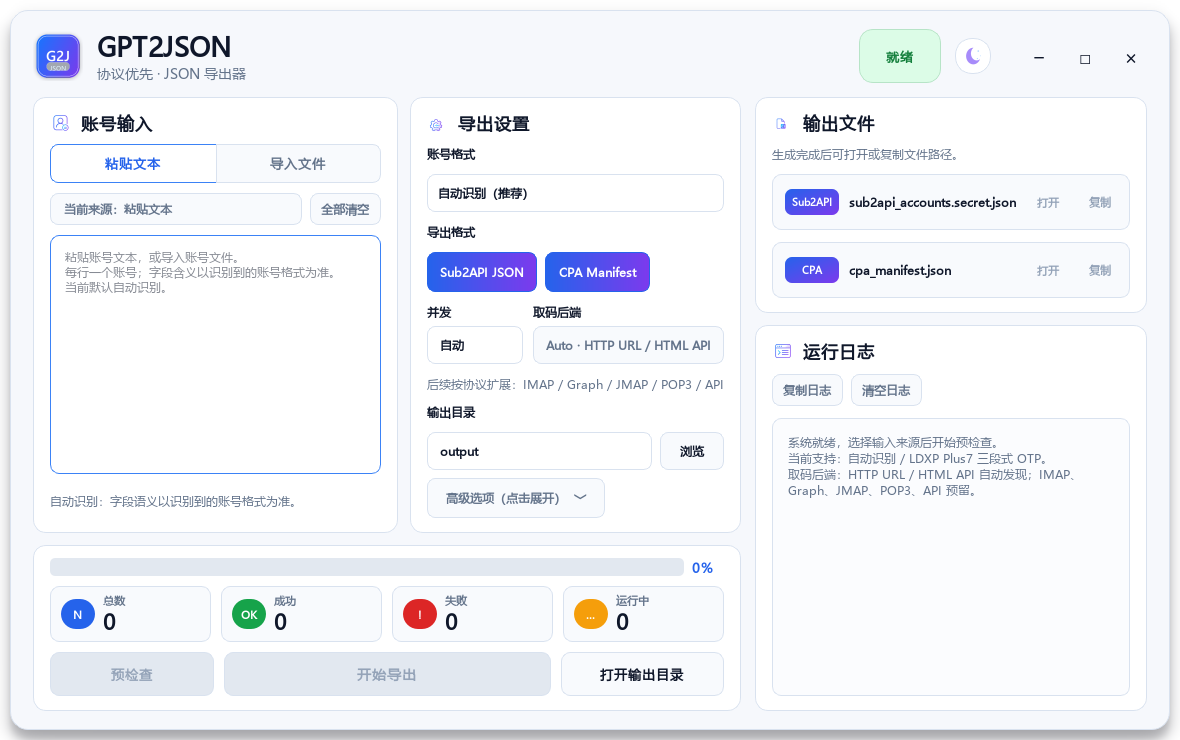
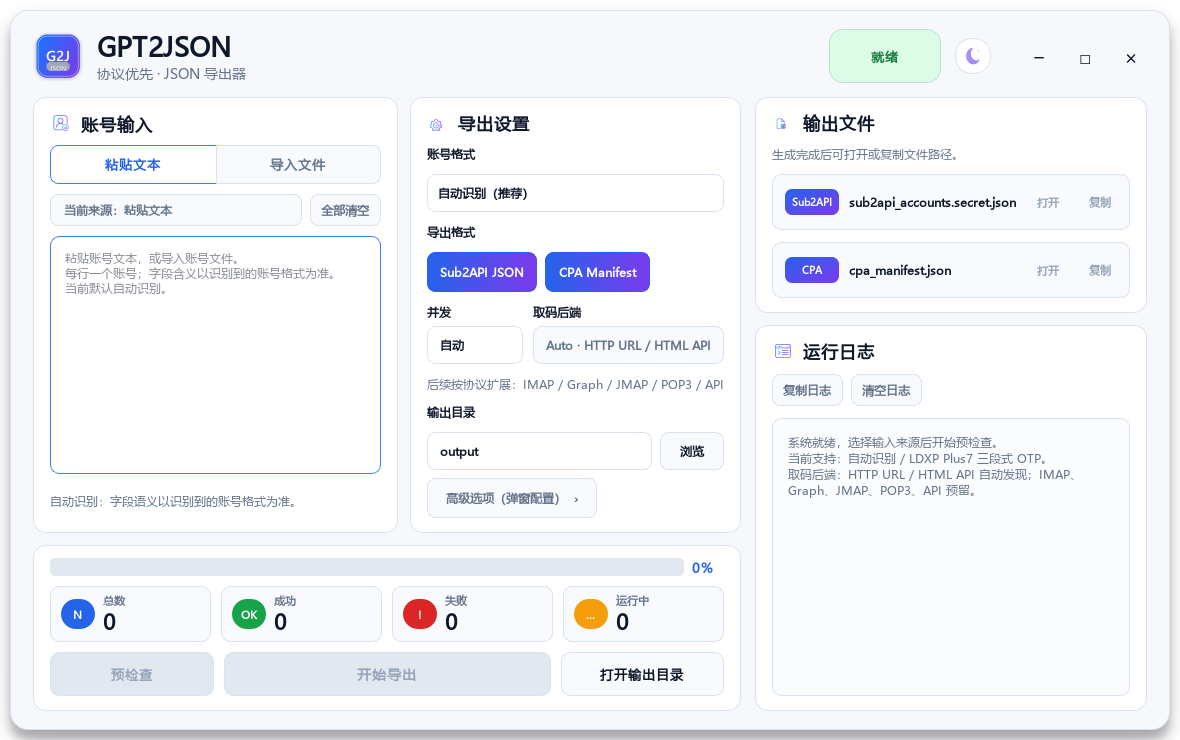
Stabilize GUI layout sizing

diff --git a/gpt2json/gui.py b/gpt2json/gui.py
@@ -11,6 +11,8 @@ from PySide6.QtWidgets import (
     QApplication,
     QButtonGroup,
     QComboBox,
+    QDialog,
+    QDialogButtonBox,
     QFileDialog,
     QFrame,
     QGraphicsDropShadowEffect,
@@ -24,6 +26,7 @@ from PySide6.QtWidgets import (
     QProgressBar,
     QPushButton,
     QSpinBox,
+    QStackedWidget,
     QToolButton,
     QVBoxLayout,
     QWidget,
@@ -316,6 +319,7 @@ class MainWindow(QMainWindow):
         self.setWindowTitle(APP_NAME)
         self.setMinimumSize(1120, 720)
         self.resize(1180, 740)
+        self.setFixedSize(1180, 740)
         self.setWindowFlags(Qt.WindowType.FramelessWindowHint | Qt.WindowType.Window)
         self.setAttribute(Qt.WidgetAttribute.WA_TranslucentBackground, True)
         if ICON_PATH.exists():
@@ -398,6 +402,7 @@ class MainWindow(QMainWindow):
         self.status_label = QLabel(self._status_text)
         self.status_label.setObjectName("StatusPill")
         self.status_label.setAlignment(Qt.AlignmentFlag.AlignCenter)
+        self.status_label.setFixedWidth(94)
         self.theme_btn = QToolButton()
         self.theme_btn.setObjectName("ThemeButton")
         self.theme_btn.setToolTip("切换深色 / 浅色")
@@ -476,16 +481,26 @@ class MainWindow(QMainWindow):
         source_row.addWidget(self.clear_input_btn)
         layout.addLayout(source_row)
 
+        self.input_stack = QStackedWidget()
+        self.input_stack.setObjectName("InputStack")
+        self.input_stack.setFixedHeight(238)
         self.paste_edit = QPlainTextEdit()
         self.paste_edit.setObjectName("PasteBox")
-        self.paste_edit.setPlaceholderText("自动识别账号格式\n当前支持：GPT邮箱----GPT密码----OTP取码源\n每行一个账号，粘贴内容优先于文件。")
+        self.paste_edit.setPlaceholderText("自动识别账号格式\n当前支持：GPT邮箱----GPT密码----OTP取码源\n每行一个账号，以当前选中的输入来源为准。")
         self.paste_edit.textChanged.connect(self._on_paste_changed)
-        layout.addWidget(self.paste_edit, 1)
+        self.input_stack.addWidget(self.paste_edit)
 
+        file_page = QWidget()
+        file_page_layout = QVBoxLayout(file_page)
+        file_page_layout.setContentsMargins(0, 0, 0, 0)
+        file_page_layout.setSpacing(10)
         self.file_drop = FileDropBox()
         self.file_drop.clicked.connect(self.pick_input)
         self.file_drop.path_changed.connect(self._on_file_changed)
-        layout.addWidget(self.file_drop, 1)
+        file_page_layout.addWidget(self.file_drop)
+        file_page_layout.addStretch(1)
+        self.input_stack.addWidget(file_page)
+        layout.addWidget(self.input_stack)
 
         self.input_hint_label = QLabel()
         self.input_hint_label.setObjectName("HintText")
@@ -569,26 +584,16 @@ class MainWindow(QMainWindow):
 
         self.advanced_btn = QToolButton()
         self.advanced_btn.setObjectName("AdvancedBar")
-        self.advanced_btn.setText("高级选项（点击展开）  ﹀")
-        self.advanced_btn.setCheckable(True)
-        self.advanced_btn.clicked.connect(self.toggle_advanced)
+        self.advanced_btn.setText("高级选项（弹窗配置）  ›")
+        self.advanced_btn.setCheckable(False)
+        self.advanced_btn.clicked.connect(self.open_advanced_dialog)
         layout.addWidget(self.advanced_btn)
 
-        self.advanced_panel = QWidget()
-        advanced_grid = QGridLayout(self.advanced_panel)
-        advanced_grid.setContentsMargins(0, 0, 0, 0)
-        advanced_grid.setHorizontalSpacing(8)
         self.timeout_spin = self._spin(10, 600, 30)
         self.otp_timeout_spin = self._spin(10, 600, 180)
         self.otp_interval_spin = self._spin(1, 60, 3)
-        advanced_grid.addWidget(self._field_label("HTTP 超时"), 0, 0)
-        advanced_grid.addWidget(self._field_label("OTP 超时"), 0, 1)
-        advanced_grid.addWidget(self._field_label("轮询间隔"), 0, 2)
-        advanced_grid.addWidget(self.timeout_spin, 1, 0)
-        advanced_grid.addWidget(self.otp_timeout_spin, 1, 1)
-        advanced_grid.addWidget(self.otp_interval_spin, 1, 2)
-        self.advanced_panel.setVisible(False)
-        layout.addWidget(self.advanced_panel)
+        for spin in (self.timeout_spin, self.otp_timeout_spin, self.otp_interval_spin):
+            spin.setVisible(False)
         layout.addStretch(1)
         return card
 
@@ -819,7 +824,7 @@ class MainWindow(QMainWindow):
             p = self.palette()
             style = f"color:{p['status_fg']};background:{p['status_bg']};border:1px solid {p['status_bd']};"
         self.status_label.setText(self._status_text)
-        self.status_label.setStyleSheet(style + "border-radius:14px;padding:6px 15px;min-width:50px;font-size:13px;font-weight:800;")
+        self.status_label.setStyleSheet(style + "border-radius:14px;padding:6px 8px;min-width:94px;max-width:94px;font-size:13px;font-weight:800;")
 
     def toggle_theme(self) -> None:
         self._theme = "dark" if self._theme == "light" else "light"
@@ -850,10 +855,7 @@ class MainWindow(QMainWindow):
         self.timeout_spin.setValue(int_setting("timeout", 30, 10, 600))
         self.otp_timeout_spin.setValue(int_setting("otp_timeout", 180, 10, 600))
         self.otp_interval_spin.setValue(int_setting("otp_interval", 3, 1, 60))
-        advanced_visible = str(self.settings.value("advanced_visible", "false")).lower() == "true"
-        self.advanced_btn.setChecked(advanced_visible)
-        self.advanced_panel.setVisible(advanced_visible)
-        self.advanced_btn.setText("高级选项（点击收起）  ︿" if advanced_visible else "高级选项（点击展开）  ﹀")
+        self.advanced_btn.setText("高级选项（弹窗配置）  ›")
 
     def _save_settings(self) -> None:
         self.settings.setValue("theme", self._theme)
@@ -865,7 +867,6 @@ class MainWindow(QMainWindow):
         self.settings.setValue("timeout", int(self.timeout_spin.value()))
         self.settings.setValue("otp_timeout", int(self.otp_timeout_spin.value()))
         self.settings.setValue("otp_interval", int(self.otp_interval_spin.value()))
-        self.settings.setValue("advanced_visible", self.advanced_panel.isVisible())
 
     def _schedule_preflight(self) -> None:
         if self._is_running:
@@ -900,8 +901,7 @@ class MainWindow(QMainWindow):
         is_paste = self._input_mode == "paste"
         self.paste_tab.setChecked(is_paste)
         self.file_tab.setChecked(not is_paste)
-        self.paste_edit.setVisible(is_paste)
-        self.file_drop.setVisible(not is_paste)
+        self.input_stack.setCurrentIndex(0 if is_paste else 1)
         self.input_source_label.setText(self._active_input_label())
         self._refresh_controls_state()
 
@@ -920,8 +920,10 @@ class MainWindow(QMainWindow):
 
     def _refresh_output_format_state(self, *_args: Any) -> None:
         if hasattr(self, "sub2api_row"):
-            self.sub2api_row.setVisible(self.sub2api_check.isChecked() or bool(self.sub2api_row.path))
-            self.cpa_row.setVisible(self.cpa_check.isChecked() or bool(self.cpa_row.path))
+            self.sub2api_row.setVisible(True)
+            self.cpa_row.setVisible(True)
+            self.sub2api_row.setEnabled(self.sub2api_check.isChecked() or bool(self.sub2api_row.path))
+            self.cpa_row.setEnabled(self.cpa_check.isChecked() or bool(self.cpa_row.path))
             any_selected = self.sub2api_check.isChecked() or self.cpa_check.isChecked()
             self.output_hint_label.setText("生成完成后可打开或复制文件路径。" if any_selected else "请至少勾选一种导出格式。")
         self._refresh_controls_state()
@@ -1070,11 +1072,40 @@ class MainWindow(QMainWindow):
         self._save_settings()
         super().closeEvent(event)
 
-    def toggle_advanced(self) -> None:
-        visible = self.advanced_btn.isChecked()
-        self.advanced_panel.setVisible(visible)
-        self.advanced_btn.setText("高级选项（点击收起）  ︿" if visible else "高级选项（点击展开）  ﹀")
-        self._save_settings()
+    def open_advanced_dialog(self) -> None:
+        dialog = QDialog(self)
+        dialog.setWindowTitle("高级选项")
+        dialog.setModal(True)
+        dialog.setFixedSize(360, 180)
+        layout = QVBoxLayout(dialog)
+        layout.setContentsMargins(18, 16, 18, 14)
+        layout.setSpacing(12)
+        grid = QGridLayout()
+        grid.setHorizontalSpacing(10)
+        grid.setVerticalSpacing(8)
+        http_spin = self._spin(10, 600, int(self.timeout_spin.value()))
+        otp_spin = self._spin(10, 600, int(self.otp_timeout_spin.value()))
+        interval_spin = self._spin(1, 60, int(self.otp_interval_spin.value()))
+        grid.addWidget(self._field_label("HTTP 超时"), 0, 0)
+        grid.addWidget(self._field_label("OTP 超时"), 0, 1)
+        grid.addWidget(self._field_label("轮询间隔"), 0, 2)
+        grid.addWidget(http_spin, 1, 0)
+        grid.addWidget(otp_spin, 1, 1)
+        grid.addWidget(interval_spin, 1, 2)
+        layout.addLayout(grid)
+        hint = QLabel("单位：秒。保存后会用于下一次导出。")
+        hint.setObjectName("HintText")
+        layout.addWidget(hint)
+        buttons = QDialogButtonBox(QDialogButtonBox.StandardButton.Ok | QDialogButtonBox.StandardButton.Cancel)
+        buttons.accepted.connect(dialog.accept)
+        buttons.rejected.connect(dialog.reject)
+        layout.addWidget(buttons)
+        dialog.setStyleSheet(self.styleSheet())
+        if dialog.exec() == QDialog.DialogCode.Accepted:
+            self.timeout_spin.setValue(http_spin.value())
+            self.otp_timeout_spin.setValue(otp_spin.value())
+            self.otp_interval_spin.setValue(interval_spin.value())
+            self._save_settings()
 
     def _set_status(self, text: str, mode: str) -> None:
         self._status_text = text.replace("●", "").strip()

diff --git a/tests/test_gui.py b/tests/test_gui.py
@@ -48,6 +48,8 @@ def test_gui_enables_run_only_after_valid_preflight(tmp_path):
     window.sub2api_check.setChecked(True)
     window.cpa_check.setChecked(True)
     window.output_edit.setText("output")
+    assert window.size().width() == 1180
+    assert window.size().height() == 740
     window.close()
     _clear_settings()
 
@@ -66,9 +68,10 @@ def test_gui_input_mode_switch_and_clear(tmp_path):
     app.processEvents()
 
     assert window._input_mode == "file"
-    assert not window.paste_edit.isVisible()
-    assert window.file_drop.isVisible()
+    assert window.input_stack.currentIndex() == 1
     assert window._last_preflight_count == 1
+    assert window.sub2api_row.isVisible()
+    assert window.cpa_row.isVisible()
 
     window.clear_input()
     app.processEvents()
